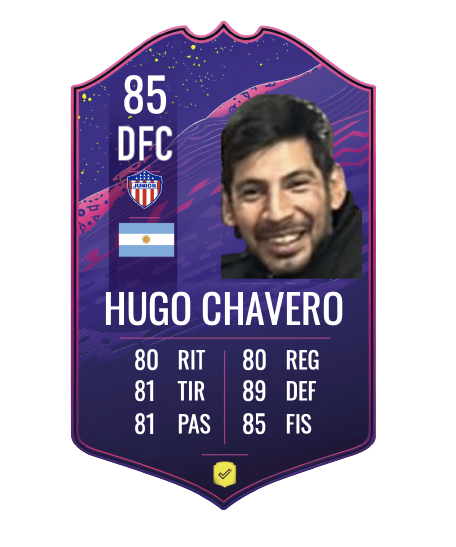
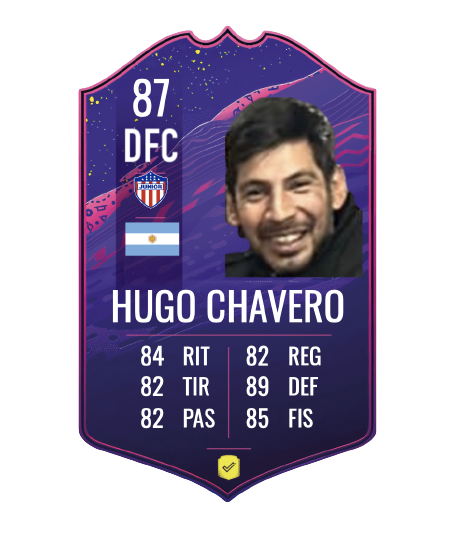
huguito updated, added quimey + pablo f.

Changed region(s): [[0.1535, 0.0312, 0.8289, 0.9375], [0.4605, 0.4688, 0.4912, 0.5]]

diff --git a/src/app/players.ts b/src/app/players.ts
@@ -217,6 +217,14 @@ const players = [
   },
   {
     id: 28,
+    name: 'Pablo Figueroa',
+    imagePath: 'assets/images/team/pablo_figueroa.png',
+    beers: 70,
+    runs: 95,
+    pubs: 70,
+  },
+  {
+    id: 29,
     name: 'Pedro',
     imagePath: 'assets/images/team/pedro.png',
     beers: 85,
@@ -224,7 +232,15 @@ const players = [
     pubs: 80,
   },
   {
-    id: 29,
+    id: 30,
+    name: 'Quimey',
+    imagePath: 'assets/images/team/quimey.png',
+    beers: 89,
+    runs: 89,
+    pubs: 80,
+  },
+  {
+    id: 31,
     name: 'Santiago B.',
     imagePath: 'assets/images/team/santiago_b.png',
     beers: 70,
